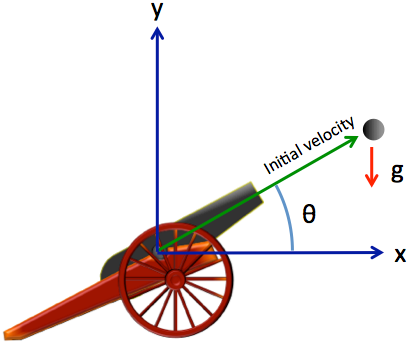
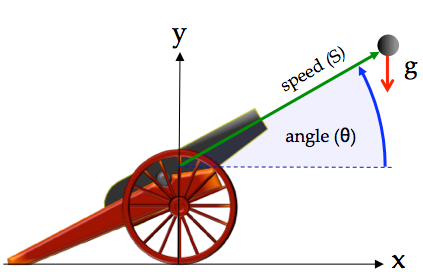
Cleanup the Cannon Readme's and Sim Tweaks of Clarity (#659)
* Delete a bunch of old png's.

* Make g (acceleration of gravity at sea-level) a parameter rather to make doc cleaner.

* Update Cannon READMEs to be more informative.

Changed region(s): [[0.0, 0.0882, 1.0, 1.0], [0.3438, 0.0, 0.4062, 0.0588], [0.75, 0.2941, 0.7812, 0.3235]]

diff --git a/Cannon/models/cannon/gravity/src/cannon_analytic.c b/Cannon/models/cannon/gravity/src/cannon_analytic.c
@@ -7,14 +7,14 @@ PURPOSE: ( Analytical Cannon )
 
 int cannon_analytic( CANNON* C ) {
 
-    C->acc[0] =  0.00;
-    C->acc[1] = -9.81 ;
+    C->acc[0] = 0.0;
+    C->acc[1] = -C->g;
     C->vel[0] = C->vel0[0] + C->acc[0] * C->time ;
     C->vel[1] = C->vel0[1] + C->acc[1] * C->time ;
     C->pos[0] = C->pos0[0] + (C->vel0[0] + (0.5) * C->acc[0] * C->time) * C->time ;
     C->pos[1] = C->pos0[1] + (C->vel0[1] + (0.5) * C->acc[1] * C->time) * C->time ;
     if (C->pos[1] < 0.0) {
-        C->impactTime = (- C->vel0[1] - sqrt( C->vel0[1] * C->vel0[1] - 2 * C->pos0[1]))/C->acc[1];
+        C->impactTime = (C->vel0[1] + sqrt( C->vel0[1] * C->vel0[1] - 2 * C->g * C->pos0[1])) / C->g;
         C->pos[0] = C->impactTime * C->vel0[0];
         C->pos[1] = 0.0;
         C->vel[0] = 0.0;

diff --git a/Cannon/models/cannon/gravity/include/cannon.h b/Cannon/models/cannon/gravity/include/cannon.h
@@ -14,6 +14,7 @@ typedef struct {
     double pos0[2] ;    /* *i m Init position of cannonball */
     double init_speed ; /* *i m/s Init barrel speed */
     double init_angle ; /* *i rad Angle of cannon */
+    double g ;          /* *i m/s2 acceleration of gravity  */
 
     double acc[2] ;     /* m/s2 xy-acceleration  */
     double vel[2] ;     /* m/s xy-velocity */

diff --git a/Cannon/models/cannon/gravity/src/cannon_numeric.c b/Cannon/models/cannon/gravity/src/cannon_numeric.c
@@ -9,8 +9,8 @@ PURPOSE: ( Numeric integration for SIM_cannon_numeric )
 int cannon_deriv( CANNON* C ) {
 
       if (!C->impact) {
-          C->acc[0] =  0.00 ;
-          C->acc[1] = -9.81 ;
+          C->acc[0] =  0.0;
+          C->acc[1] = -C->g;
           C->timeRate = 1.00;
       }
       return 0 ; 

diff --git a/Cannon/models/cannon/gravity/src/cannon_init.c b/Cannon/models/cannon/gravity/src/cannon_init.c
@@ -10,8 +10,7 @@ PURPOSE: (Set the initial data values)
 /* default data job */
 int cannon_default_data( CANNON* C ) {
 
-    C->acc[0] = 0.0;
-    C->acc[1] = -9.81;
+    C->g = 9.81;
     C->init_angle = M_PI/6 ;
     C->init_speed  = 50.0 ;
     C->pos0[0] = 0.0 ;

diff --git a/Cannon/SIM_cannon_analytic/README.md b/Cannon/SIM_cannon_analytic/README.md
@@ -1,10 +1,13 @@
 # SIM\_cannon\_analytic
+
 ---
+
 This is first of eight Trick-based simulations that one builds in the Trick
-Tutorial (Section 3). It's purpose is to introduce some of the fundamentals
+Tutorial (Section 4). It's purpose is to introduce some of the fundamentals
 of building a Trick simulation.
 
-Here we simulate the flight of a cannon ball. We want to know the position and velocity of the cannon ball over time, given an initial position, and
+Here we simulate the flight of a cannon ball. We want to know the position and
+velocity of the cannon ball over time, given an initial position, and
 velocity, and subject to the following assumptions and limitations:
 
 * The **only** force acting on the cannon ball is gravity.
@@ -14,45 +17,42 @@ velocity, and subject to the following assumptions and limitations:
 
 ![](images/CannonInit.png)
 
-### Solution
+## Parameterization 
+The following parameters are given default values in a "default_data" job called 
+**cannon\_default\_data**. Their values can be changed in the **input.py** file.
 
-This problem has a closed-form solution, so that's what is used.
+| Name             | Sim Variable           | Type      | Units   |  Symbol                           | default |
+|------------------|------------------------|-----------|---------|:---------------------------------:|---------|
+| Barrel Angle     | dyn.cannon.init\_angle | double    | radians | ![theta](images/param_theta.png)  | 30*(&#x3C0;/180) |
+| Speed            | dyn.cannon.init\_speed | double    | m/s     | ![speed](images/param_s.png)      | 50.0             |
+| Gravity          | dyn.cannon.g           | double    | m/s     | ![g](images/param_g.png)          | 9.81            | 
+| Initial Position | dyn.cannon.pos0        | double[2] | m       | ![x_0](images/init_position.png)  | ![](images/zero_vector.png) |
+
+## Initialization
+The initial velocity is calculated in an "initialization" job.
+
+|     Name         | Sim Variable    | Type      | Units | Calculation                   |
+|------------------|:----------------|-----------|-------|-------------------------------|
+| Initial Velocity | dyn.cannon.vel0 | double[2] | m/s   | ![](images/init_velocity.png) |
+
+## State Propagation
+For each time-step, the following are calculated in a "scheduled" job. Though acceleration is
+constant in this simulation, it usually isn't for "F=ma" type simulations.
+
+|     Name         | Sim Variable   | Type      | Units     | Calculation                      |
+|------------------|:---------------|-----------|-----------|----------------------------------|
+| Acceleration     | dyn.cannon.acc | double[2] | m/s&#xB2; | ![](images/acceleration.png)     |
+| Velocity(t)      | dyn.cannon.vel | double[2] | m/s       | ![](images/velocity_fn_of_t.png) |
+| Position(t)      | dyn.cannon.pos | double[2] | m         | ![](images/position_fn_of_t.png) |
+
+## Calculating When the Ball Impacts the Ground.
+The cannon ball will impact the ground, when y-element of the position vector is zero.
+
+|     Name         | Sim Variable          | Type   | Units | Calculation                    |
+|------------------|:----------------------|--------|-------|--------------------------------|
+| Time of Impact   | dyn.cannon.impactTime | double | s     | ![](images/time_of_impact.png) |
 
 <!--
-Tex: v_{x0}=S\cos\theta
+t_{\textrm{impact}} = \frac{ -v_{0_y} - \sqrt{v_{0_y}^2 - 2 g x_{0_y} }}{g}
 -->
-![](images/init_v_x_0.png)
-
-<!--
-Tex: v_{y0}=S\sin\theta
--->
-![](images/init_v_y_0.png)
-
-![](images/init_a_x.png)
-
-![](images/init_a_y.png)
-
-![](images/solution_vx.png)
-
-![v_{y}(t) = gt +v_{y0}](images/solution_vy.png)
-
-![](images/solution_x.png)
-
-![](images/solution_y.png)
-
-
-The cannon ball will impact the ground, when y(t)=0 at:
-
-![](images/time_of_impact.png)
-
-
-### CANNON Object
-Model Variable                              | Simulation Variable | Type    | Units
---------------------------------------------|---------------------|---------|-------
-![](images/x_0.png), ![](images/y_0.png)    | CANNON.pos0[2]      |double[2]| m
-![](images/v_x_0.png), ![](images/v_y_0.png)| CANNON.vel0[2]      |double[2]| m/s
-![\theta](images/param_theta.png)           | CANNON.init\_angle  |double   | r
-![speed](images/param_s.png)                | CANNON.init\_speed  |double   | m/s
-![\vec{x}](images/vector_x.png)             | CANNON.pos[2]       |double[2]| m
-![\vec{v}](images/vector_v.png)             | CANNON.vel[2]       |double[2]| m/s
 

diff --git a/Cannon/SIM_cannon_numeric/README.md b/Cannon/SIM_cannon_numeric/README.md
@@ -1,15 +1,31 @@
-# SIM\_cannon\_integ
+# SIM\_cannon\_numeric
+
+---
+
+This is the second in a series example cannon ball simulations that one builds in the Trick Tutorial (Sections 9, 10). It's purpose is to introduce Trick supported numerical methods. 
+
+Rather than using the analytic solutions of SIM\_cannon\_analytic, this simulation uses Trick's numerical integration, and root-finding methods to:
+
+* Determine the cannon ball state (velocity, position) at each time step, and
+* Determine when and where the cannon ball impacts the ground.
+
+The simulation is otherwise the same as SIM\_cannon\_analytic.
 
 ![CannonPicture](images/CannonInit.png)
 
-### The Simulation
+## Parameterization
+Same as in SIM\_cannon\_analytic.
 
-This is a simulation of a cannon shooting a cannonball. Given the initial position of the cannon ball, the muzzle velocity (speed) of the cannon ball, and the elevation angle of the cannon barrel the simulation computes the cannon ball's trajectory and time of impact with the ground.
+## Initialization
+Same as in SIM\_cannon\_analytic.
 
-The acceleration of gravity is assumed to be -9.81 m/s<sup>2</sup>.
+## State Propagation
 
-
+This Trick simulation calculates the cannonball state by numerical integration.
+Acceleration is calculated in the "derivative" job **cannon\_deriv**. It is then
+used in "integration" job **cannon\_integ** to calculate the cannonball's velocity and
+position, using the Trick **integrate** function.
  
- 
- 
- 
+## When and Where the Ball Impacts the Ground
+The time and position of impact is determined by the "dynamic\_event" event job
+**cannon\_impact**, using the Trick **regula_falsi** function.
